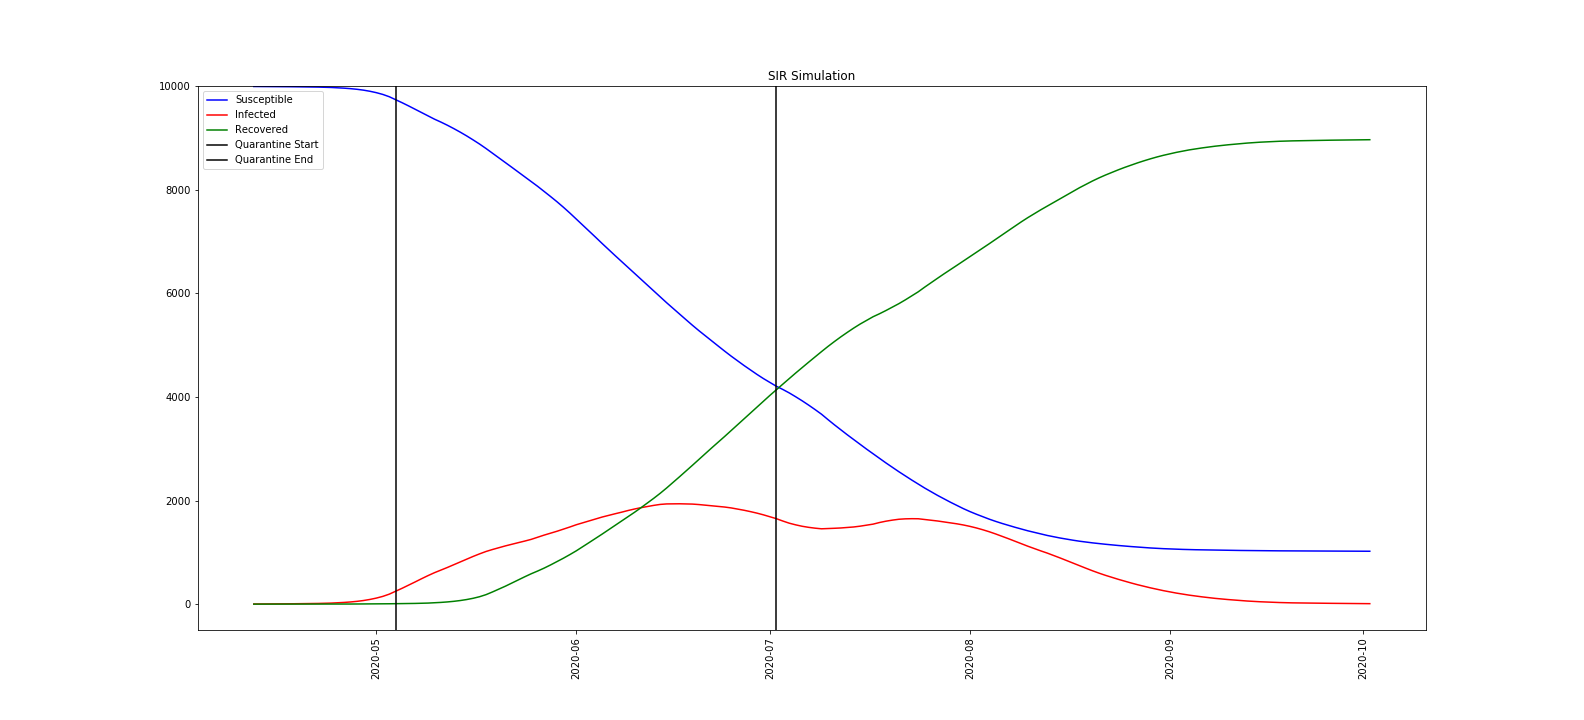
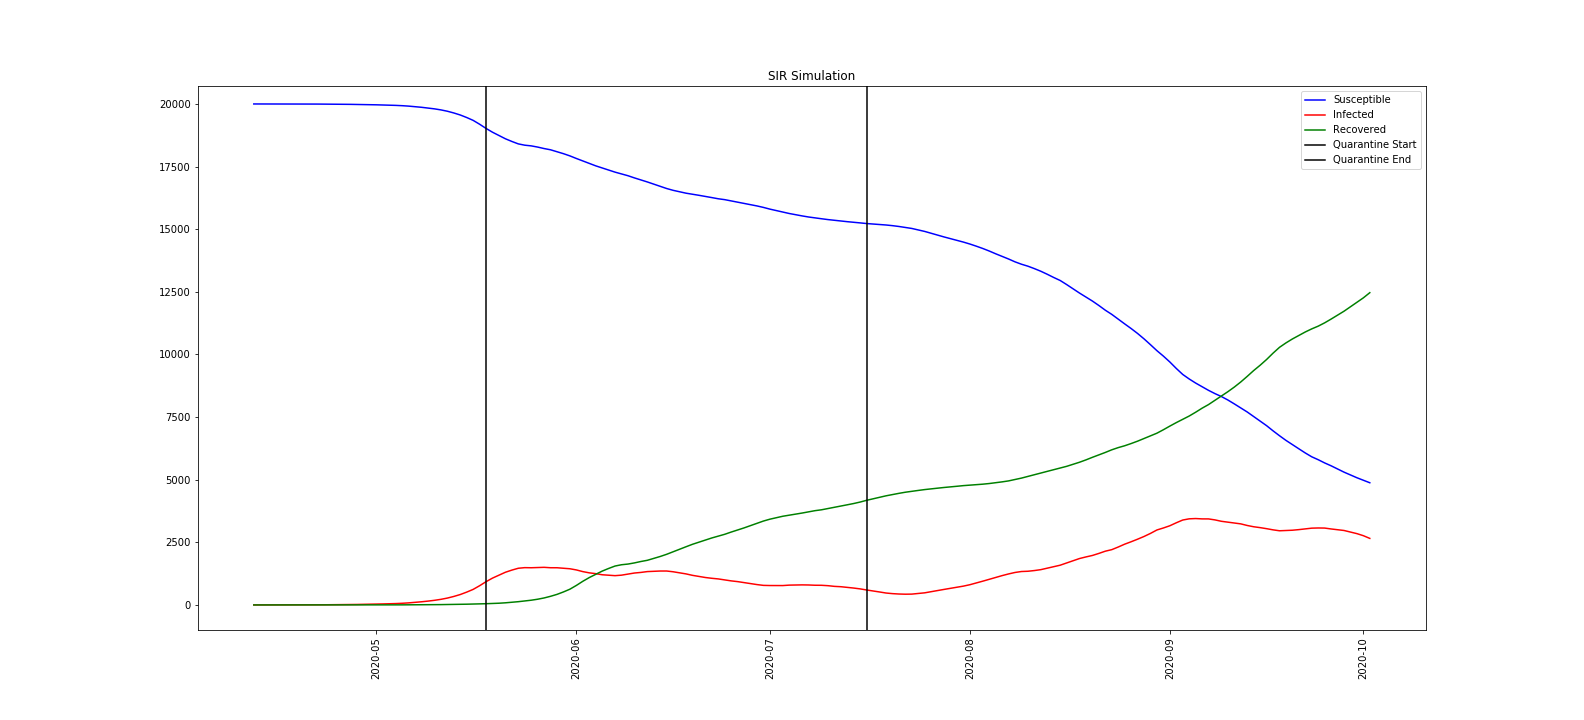
implementing poisson distributions / updating graphic for 4/7

diff --git a/sim.py b/sim.py
@@ -25,12 +25,13 @@ def initialInfect(city, initialCount, dateToday, recoveryTime):
     return (city)
 
 
-def contactSim(city, recoveryTime, date, contactRate=6, probInfection=.05):
+def contactSim(city, recoveryTime, date, lambdaPoiss=5, probInfection=.05):
 
     newInfections = 0 
     contagiousList = city[(city['infected']==True) & (city['recovered']==False) & 
                         (city['quarantined']==False)].index.tolist()
 
+    contactRate = int(np.random.poisson(lambdaPoiss,1))
     suceptableList = city.index.tolist()
 
     for i in contagiousList:
@@ -67,7 +68,7 @@ dayStart = 737521
 simDuration = 180
 
 # population of city
-population = 10000 
+population = 20000 
 
 # how long does the disease last?
 infectionDuration = 15
@@ -76,7 +77,7 @@ infectionDuration = 15
 initialInfections = 1
 
 # number of infections before quarantine starts
-quarantineInfectionStart = 400
+quarantineInfectionStart = 1500
 
 # days quarantine should last
 quarantineDuration = 60
@@ -110,6 +111,7 @@ for today in range(1+dayStart, simDuration+dayStart):
 
     if (len(city[city.infected==True]) < quarantineInfectionStart):
         # print('base')
+        # pre quarantine
         city, newInfections = contactSim(city, infectionDuration, today)
         quarantineDayStart = today
         quarantineDayEnd = today
@@ -117,13 +119,15 @@ for today in range(1+dayStart, simDuration+dayStart):
     elif ((len(city[city.infected==True]) > quarantineInfectionStart) & 
           (quarantineDayStart + quarantineDuration > today)):
         # print('in quarantine')
-        city, newInfections = contactSim(city, infectionDuration, today, contactRate=2)
+        # in quarantine 
+        city, newInfections = contactSim(city, infectionDuration, today, lambdaPoiss=1.3)
         quarantineDayEnd = today
     
     elif ((len(city[city.infected==True]) > quarantineInfectionStart) & 
           (quarantineDayStart + quarantineDuration < today)):
-        city, newInfections = contactSim(city, infectionDuration, today, contactRate=4)
         # print('end quarantine')
+        # after quarantine is over
+        city, newInfections = contactSim(city, infectionDuration, today, lambdaPoiss=2.8)
 
 
     city, newRecovered = convertRecovered(city, today)
@@ -155,7 +159,7 @@ dateRename = dict(zip(summary.index.tolist(), dateList))
 
 summary = summary.rename(index=dateRename)
 
-SIR_path = os.path.join(os.getcwd(), 'plots', 'SIR.png')
+SIR_path = os.path.join(os.getcwd(), 'simPlots', 'SIR.png')
 
 plt.figure(figsize=(22, 10))
 plt.plot(summary.susceptible.rolling(window=7).mean(), label='Susceptible', color='blue')
@@ -165,13 +169,13 @@ plt.title('SIR Simulation')
 plt.axvline(dt.fromordinal(quarantineDayStart), color='k', label='Quarantine Start')
 plt.axvline(dt.fromordinal(quarantineDayEnd), color='k', label='Quarantine End')
 plt.legend(loc='left')
-plt.ylim(top=population)
+plt.ylim(top=population+700)
 plt.xticks(rotation='vertical')
 plt.savefig(SIR_path)
 plt.show()
 
 
-new_path = os.path.join(os.getcwd(), 'plots', 'new.png')
+new_path = os.path.join(os.getcwd(), 'simPlots', 'new.png')
 
 plt.figure(figsize=(22, 10))
 plt.plot(summary.new.rolling(window=7).mean())
@@ -184,7 +188,7 @@ plt.savefig(new_path)
 plt.show()
 
 
-infectHist_path = os.path.join(os.getcwd(), 'plots', 'infectionHist.png')
+infectHist_path = os.path.join(os.getcwd(), 'simPlots', 'infectionHist.png')
 
 plt.figure(figsize=(22, 10))
 plt.hist(city[city['infected']==True].numInfected, bins=city.numInfected.max())
@@ -194,7 +198,3 @@ plt.savefig(infectHist_path)
 plt.show()
 
 #%%
-
-city.numInfected.mean()
-
-# %%
